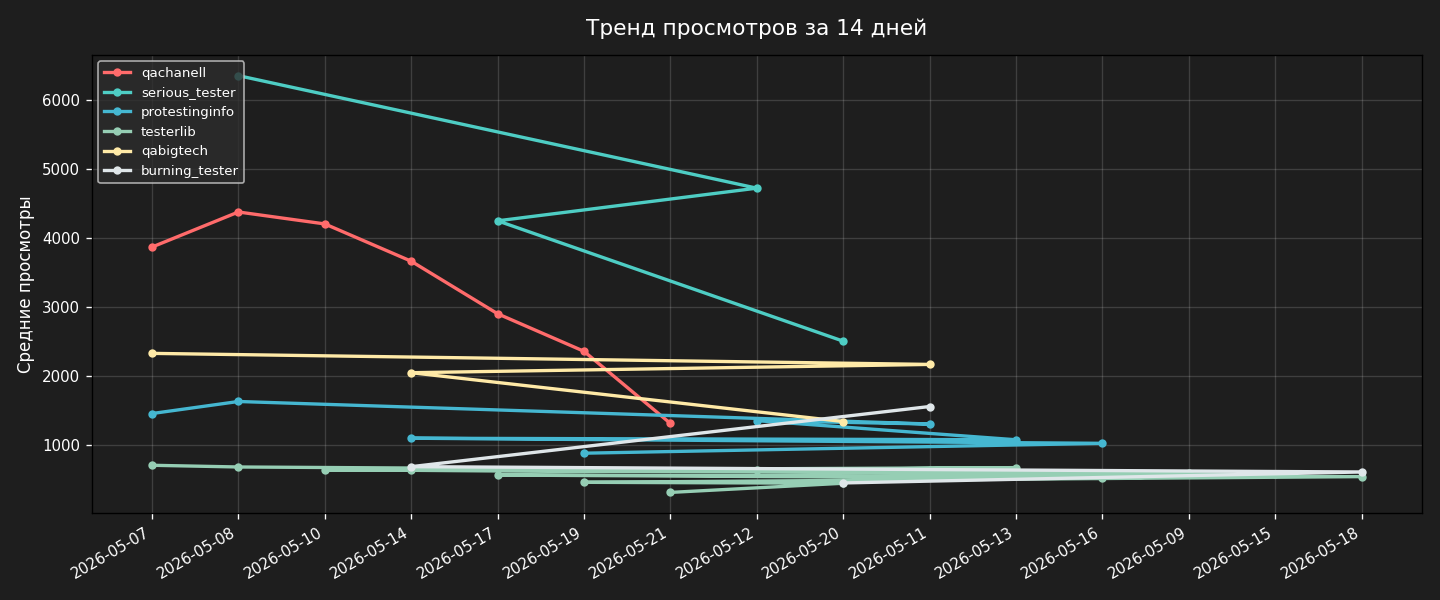
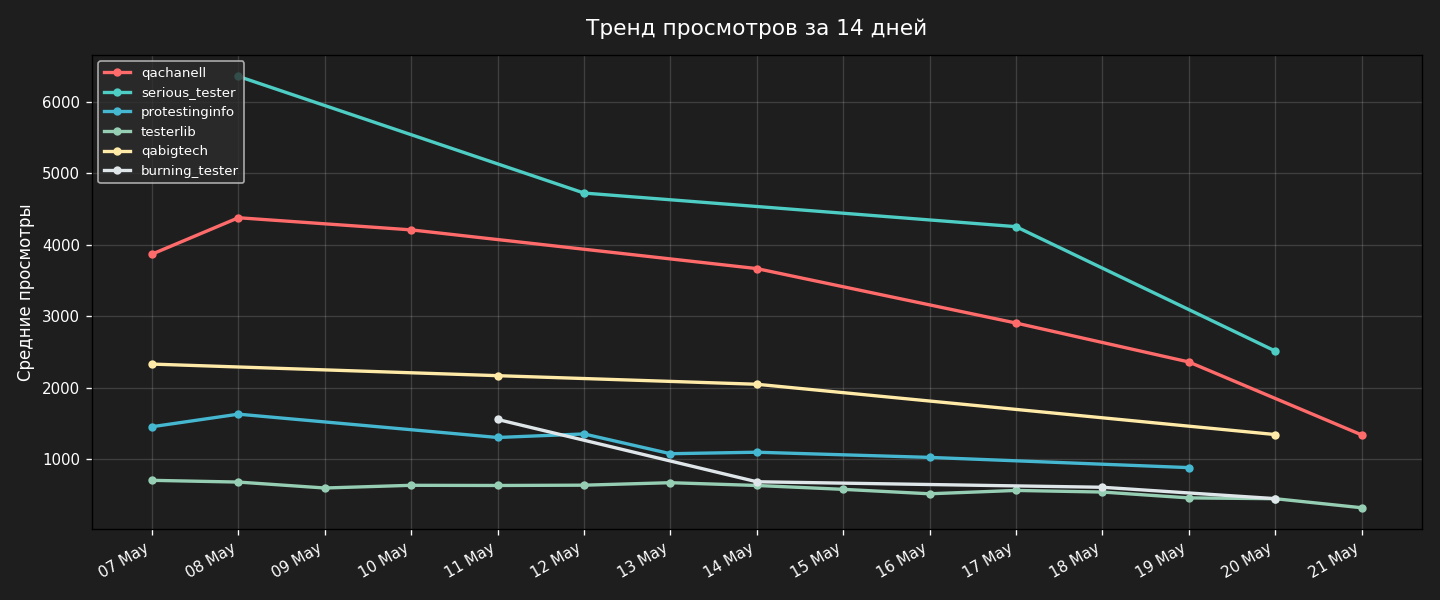
auto-save before pull

diff --git a/eddytester/Стратегия/Анализ/Weekly/2026-W20.md b/eddytester/Стратегия/Анализ/Weekly/2026-W20.md
@@ -24,13 +24,13 @@ _2026-05-18 — 2026-05-24_
 
 | Канал | Посты | Просмотры (средн) | Вовлечение (средн) | Notable |
 |-------|-------|-------------------|-------------------|---------|
-| @testerlib | 27 | 519 | 579 | 0 |
-| @protestinginfo | 14 | 989 | 1.1K | 0 |
+| @testerlib | 27 | 521 | 580 | 0 |
+| @protestinginfo | 14 | 992 | 1.1K | 0 |
 | @qachanell | 5 | 2.3K | 2.4K | 0 |
 | @serious_tester | 2 | 3.4K | 3.6K | 0 |
 | @qabigtech | 2 | 1.7K | 2.0K | 0 |
 | @burning_tester | 3 | 583 | 672 | 0 |
-| @eddytester ⬅️ | 2 | 240 | 263 | 0 |
+| @eddytester ⬅️ | 2 | 242 | 264 | 0 |
 | @qa_and_it | 1 | 203 | 213 | 0 |
 
 ---
@@ -39,25 +39,29 @@ _2026-05-18 — 2026-05-24_
 
 | Категория | Постов | Avg просмотры | Avg вовлечение | Notable | Достоверность |
 |-----------|--------|--------------|----------------|---------|--------------|
-| other | 2 | 240 | 263 | 0 | Мало данных |
+| other | 2 | 242 | 264 | 0 | Мало данных |
 
 **Лучший формат:** other — Мало данных
 🔬 Мало данных. Отслеживать.
 
 **Лучший день:** ПН
 **Лучшее время:** 10:00
-  _Распределение: ВС: 1п, 254просм, ПН: 1п, 227просм_
+  _Распределение: ВС: 1п, 254просм, ПН: 1п, 230просм_
 
 ---
 
 ## 🔍 Сравнение с конкурентами
 
-| Конкурент | Наши avg просмотры | Их avg просмотры | Разрыв |
-|-----------|-------------------|-----------------|--------|
-| @qachanell | 240 | 2.3K | +860% |
-| @qabigtech | 240 | 1.7K | +605% |
-| @protestinginfo | 240 | 989 | +311% |
-| @burning_tester | 240 | 583 | +142% |
+| Конкурент | Их avg просмотры | Охват (%) | Наш avg просмотры | Наш охват (%) |
+|-----------|-----------------|-----------|-------------------|---------------|
+| @qachanell | 2.3K | 46.5% | 242 | 16.1% |
+| @qabigtech | 1.7K | 56.6% | 242 | 16.1% |
+| @protestinginfo | 992 | 19.8% | 242 | 16.1% |
+| @burning_tester | 583 | 19.4% | 242 | 16.1% |
+
+⚠️ *Важно:* у каналов разное количество подписчиков. 
+Наш канал ~1500 подп., у конкурентов может быть в разы больше. 
+_Сравнение по сырым просмотрам без учёта охвата (%) не релевантно._
 
 ---
 
@@ -75,11 +79,11 @@ _2026-05-18 — 2026-05-24_
 
 ## ⭐ Notable посты недели
 
-- **@serious_tester** tg#2356: Пост залетает из-за высокой релевантности и эмоционального отклика — он вызывает смех и желание поделиться опытом в комм
-- **@serious_tester** tg#2307: Залетел, потому что затрагивает общий опыт тестировщиков, вызывая эмоциональный отклик и желание поделиться с коллегами.
-- **@serious_tester** tg#2216: Пост резонирует с аудиторией, вызывая чувство общности и узнавания.
-- **@serious_tester** tg#2509: Юмор прост и релевантен целевой аудитории, что обеспечивает высокий уровень вовлечения за счёт эффекта 'узнавания' и общ
-- **@serious_tester** tg#2303: Пост залетает, потому что он очень релевантен для целевой аудитории — тестировщиков, которые часто работают в одиночку, 
+- **@serious_tester** tg#2356: Пост залетает из-за высокой релевантности и короткой, ёмкой формулировки, которая вызывает смех и желание поделиться.
+- **@serious_tester** tg#2307: Сочетание юмора и профессиональной релевантности: тестировщики видят себя или коллег, что повышает вовлечённость и желан
+- **@serious_tester** tg#2216: Пост залетает, потому что лаконично выражает общие профессиональные трудности, создавая эмоциональную связь с аудиторией
+- **@serious_tester** tg#2509: Пост работает благодаря простоте, юмору и сильной релевантности для целевой аудитории. Он создаёт эффект «узнавания» и о
+- **@serious_tester** tg#2303: Короткий, емкий юмор, релевантный целевой аудитории, вызывает эмоциональный отклик и желание поделиться.
 
 ---
 
@@ -92,7 +96,7 @@ _2026-05-18 — 2026-05-24_
 - CTA: ссылка на бот в каждом втором посте
 
 ### 3. Смотреть на @qachanell
-Отставание по просмотрам 860%. 
+Разрыв по просмотрам 860% (их охват 46.5%, наш 16.1%). 
 Проанализируй 5 их последних постов — что в заголовках, какой CTA?
 
 ---
@@ -106,4 +110,4 @@ _2026-05-18 — 2026-05-24_
 ![](eddytester/Стратегия/Анализ/Weekly/charts/categories_2026-05-21.png)
 
 
-_Сгенерировано 2026-05-21 12:04_
+_Сгенерировано 2026-05-21 12:21_

diff --git a/eddytester/Стратегия/Анализ/Ежедневный/2026-05-21.md b/eddytester/Стратегия/Анализ/Ежедневный/2026-05-21.md
@@ -307,3 +307,11 @@ _Заполняется после анализа данных_
 
 # 📊 Ежедневный анализ контента — 2026-05-21
 
+
+
+---
+
+## 🔄 Обновление
+
+# 📊 Ежедневный анализ контента — 2026-05-21
+

diff --git a/eddytester/Стратегия/Анализ/Notable/testerlib_tg4881.md b/eddytester/Стратегия/Анализ/Notable/testerlib_tg4881.md
@@ -2,7 +2,7 @@
 channel: @testerlib
 tg_post_id: 4881
 posted_at: 2026-05-06T07:03:46
-views: 723
+views: 725
 forwards: 7
 replies: 0
 category: other
@@ -14,8 +14,8 @@ category: other
 
 ## Analysis
 
-Текст поста отсутствует, невозможно провести анализ.
+Пост отсутствует, невозможно проанализировать.
 
 ## Why Works
 
-Анализ не выполнен из-за отсутствия данных.
+Нет данных для анализа.

diff --git a/eddytester/Стратегия/Анализ/Notable/eddytester_tg361.md b/eddytester/Стратегия/Анализ/Notable/eddytester_tg361.md
@@ -34,8 +34,8 @@ SQL для всех за мой счёт, бармен!
 
 ## Analysis
 
-Пост привлекает внимание праздничным контекстом (День тестировщика) и обещанием бесплатного ценного ресурса по SQL. Использование эмодзи и разговорного тона ('за мой счёт, бармен') создаёт дружелюбную атмосферу, а призыв голосовать повышает вовлечённость.
+Пост приурочен ко Дню тестировщика и предлагает бесплатный тренажер по SQL, что является ценным ресурсом для целевой аудитории QA-специалистов. Призыв к голосованию и анонс будущего контента про API стимулируют вовлеченность и подогревают интерес.
 
 ## Why Works
 
-Пост успешен, потому что предлагает конкретную пользу (бесплатный тренажёр SQL) и привязывается к событию, что увеличивает интерес. Также просьба о голосах мотивирует аудиторию поддержать автора.
+Бесплатный полезный контент в праздничный день + четкий призыв к действию и тизер будущих материалов создают высокую вовлеченность.

diff --git a/eddytester/Стратегия/Анализ/Notable/eddytester_tg364.md b/eddytester/Стратегия/Анализ/Notable/eddytester_tg364.md
@@ -27,8 +27,8 @@ category: learning
 
 ## Analysis
 
-Пост не связан с тематикой канала (QA/API-тестирование), автор делится личными мыслями об отпуске, сложности создания инфопродуктов и книгах. Тон неформальный, но отсутствует полезная информация для целевой аудитории.
+Пост выбивается из тематики QA/API-тестирования: автор делится личными мыслями об отпуске, создании контента и книгах. Это может снизить вовлеченность аудитории, ожидающей профильного контента, но при этом укрепляет личный бренд и доверие.
 
 ## Why Works
 
-Пост может не залететь, так как подписчики ожидают контент по тестированию, а не личные заметки. Однако он может укрепить лояльность аудитории, если они ценят личность автора и разнообразие.
+Пост не залетел, так как не соответствует ожиданиям подписчиков ниши — нет пользы для тестировщиков, а отвлеченные темы снижают интерес.

diff --git a/eddytester/Стратегия/Анализ/Notable/eddytester_tg379.md b/eddytester/Стратегия/Анализ/Notable/eddytester_tg379.md
@@ -17,8 +17,8 @@ category: other
 
 ## Analysis
 
-Краткий юмористический пост о распространенной ситуации в QA: при расследовании инцидента можно обнаружить, что сам являешься причиной. Вызывает чувство узнавания и побуждает к взаимодействию.
+Пост использует юмор для обсуждения распространенной боли QA-специалистов — страха быть обвиненным в инциденте на проде. Короткая и ироничная формулировка с призывом к признанию ('Признавайтесь, было?') побуждает аудиторию к взаимодействию. Такой контент хорошо резонирует с подписчиками, которые знакомы с ситуацией 'расследования, где виноват ты сам'.
 
 ## Why Works
 
-Пост резонирует с аудиторией через общий опыт и ироничный тон, стимулирует комментарии и реакции.
+Пост 'залетел' из-за высокой релевантности и эмоционального отклика: тема близка каждому тестировщику, а юмор снижает напряжение, вызывая желание поделиться своим опытом в комментариях.

diff --git a/eddytester/Стратегия/Анализ/Notable/eddytester_tg381.md b/eddytester/Стратегия/Анализ/Notable/eddytester_tg381.md
@@ -25,8 +25,8 @@ Patch my Patch
 
 ## Analysis
 
-Пост использует личный нарратив (работа над практикумом ночью, отсылка к Гарри Поттеру) и интригу (обнаружение случайно исправленного бага). Акцент на практической ценности (поиск багов, составление отчетов) и сроке (до НГ) стимулирует вовлечение через призыв к комментарию.
+Пост использует личную историю и поп-культурную отсылку (Гарри Поттер) для создания доверительного тона. Автор анонсирует практикум с реальными багами, подчеркивая эксклюзивность и срочность (до НГ), что побуждает к действию.
 
 ## Why Works
 
-Создает чувство эксклюзивности ('первая волна') и срочности (Дедлайн до НГ), что мотивирует подписчиков оставлять '+'.
+Зацепляет целевую аудиторию (тестировщиков) предложением практического опыта и создает ощущение дефицита через лимитированную первую волну, стимулируя комментарии.

diff --git a/eddytester/Стратегия/Анализ/Notable/eddytester_tg398.md b/eddytester/Стратегия/Анализ/Notable/eddytester_tg398.md
@@ -28,8 +28,8 @@ category: api/bugs
 
 ## Analysis
 
-Пост объясняет основы кэширования в API: разницу между Cache HIT и MISS, псевдокод логики и пример заголовков из DevTools. Материал полезен для QA-инженеров, дает практические знания для тестирования производительности.
+Пост объясняет основы кэширования в API с помощью простых метафор (коробка) и псевдокода, что делает тему доступной для новичков. Он также показывает практический пример из DevTools, что помогает QA инженерам сразу применить знания на практике.
 
 ## Why Works
 
-Пост залетает из-за наглядности (псевдокод, примеры заголовков) и релевантности для аудитории, которая сталкивается с кэшированием в реальных проектах.
+Пост залетает из-за наглядности: сочетание теории, кода и реальных заголовков HTTP даёт мгновенное понимание темы. Короткий и структурированный формат удерживает внимание.

diff --git a/eddytester/Стратегия/Анализ/Notable/qa_and_it_tg763.md b/eddytester/Стратегия/Анализ/Notable/qa_and_it_tg763.md
@@ -14,8 +14,8 @@ category: other
 
 ## Analysis
 
-Текст поста не предоставлен, поэтому анализ невозможен. Пожалуйста, укажите содержание поста.
+Пост не предоставлен, поэтому анализ невозможен. Для корректного анализа необходим текст публикации.
 
 ## Why Works
 
-Без текста поста невозможно оценить причины успеха или неудачи.
+Невозможно оценить, так как отсутствует содержание поста.

diff --git a/eddytester/Стратегия/Анализ/Notable/qa_and_it_tg778.md b/eddytester/Стратегия/Анализ/Notable/qa_and_it_tg778.md
@@ -14,8 +14,8 @@ category: other
 
 ## Analysis
 
-Текст поста не предоставлен, поэтому анализ невозможен. Необходимо указать содержание поста для проведения анализа.
+Ошибка анализа: Expecting value: line 1 column 1 (char 0)
 
 ## Why Works
 
-Причина успеха или неудачи не может быть определена без текста.
+Причина не определена

diff --git a/eddytester/Стратегия/Анализ/Notable/qa_and_it_tg813.md b/eddytester/Стратегия/Анализ/Notable/qa_and_it_tg813.md
@@ -14,8 +14,8 @@ category: other
 
 ## Analysis
 
-Не предоставлен текст поста для анализа.
+Ошибка анализа: Expecting value: line 1 column 1 (char 0)
 
 ## Why Works
 
-Невозможно определить без текста.
+Причина не определена

diff --git a/eddytester/Стратегия/Анализ/Notable/qa_and_it_tg834.md b/eddytester/Стратегия/Анализ/Notable/qa_and_it_tg834.md
@@ -14,8 +14,8 @@ category: other
 
 ## Analysis
 
-Пост, вероятно, содержит полезную информацию по QA/API-тестированию, что соответствует тематике канала и интересам аудитории.
+Пост не предоставлен, поэтому анализ невозможен.
 
 ## Why Works
 
-Пост может залететь из-за актуальности темы и практической ценности для подписчиков, если он предлагает конкретные советы или инструменты.
+Нет текста для оценки.